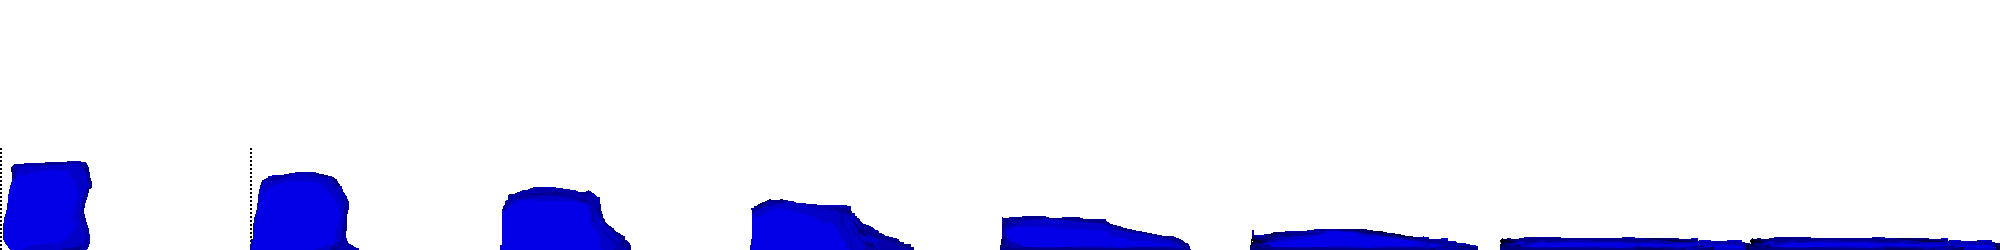
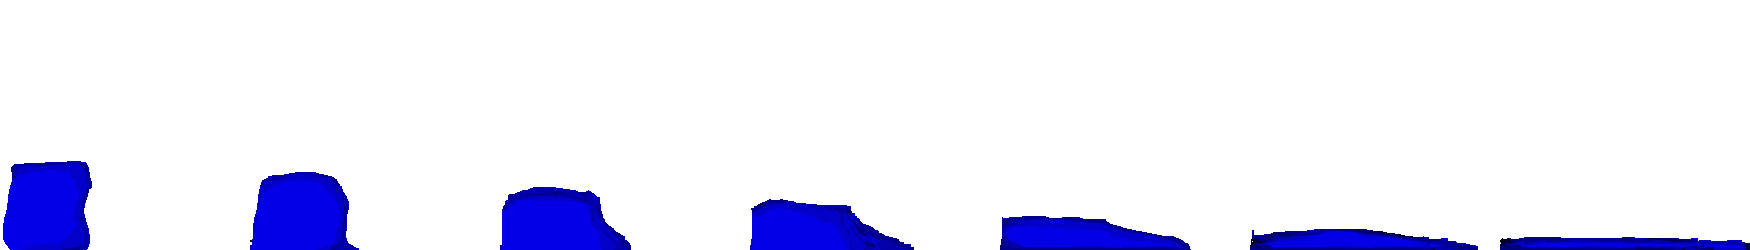
fixed water bucket and started working on rotating bullets

Changed region(s): [[0.2469, 0.728, 1.0, 1.0], [0.1234, 0.672, 0.216, 1.0], [0.0, 0.644, 0.0617, 1.0]]

diff --git a/core/src/com/main/Water.java b/core/src/com/main/Water.java
@@ -7,13 +7,11 @@ import com.badlogic.gdx.graphics.g2d.SpriteBatch;
 import com.badlogic.gdx.graphics.g2d.TextureRegion;
 import com.badlogic.gdx.math.Rectangle;
 
-import java.util.ArrayList;
-import java.util.List;
-
-public class Cannon {
+public class Water {
     Sprite sprite;
     int x, y, w, h;
     int counter = 0, delay;
+    boolean active = true;
     String type;
 
     // animation variables
@@ -22,21 +20,16 @@ public class Cannon {
     Animation anim;
     TextureRegion[] frames;
     TextureRegion frame;
-    TextureRegion last_frame;
     float frame_time = 0.1f;
 
-
-
-
-
-    Cannon(String type, int x, int y) {
+    Water(String type, int x, int y) {
         this.type = type;
-        sprite = new Sprite(Tables.cannon_resources.get(type) == null ? Resources.cannon : Tables.cannon_resources.get(type));
+        sprite = new Sprite(Tables.water_resources.get(type) == null ? Resources.water_bucket : Tables.water_resources.get(type));
         rows = 1;
         cols = Tables.balance.get("cols_"+type) == null ? 1 : Tables.balance.get("cols_"+type);
-        w = (Tables.cannon_resources.get(type) == null ? Resources.cannon : Tables.cannon_resources.get(type)).getWidth() / cols;
-        h = (Tables.cannon_resources.get(type) == null ? Resources.cannon : Tables.cannon_resources.get(type)).getHeight() / rows;
-        delay = Tables.balance.get("delay_"+type) == null ? 30 : Tables.balance.get("delay_"+type);
+        w = (Tables.water_resources.get(type) == null ? Resources.water_bucket : Tables.water_resources.get(type)).getWidth() / cols;
+        h = (Tables.water_resources.get(type) == null ? Resources.water_bucket : Tables.water_resources.get(type)).getHeight() / rows;
+//        delay = Tables.balance.get("delay_"+type) == null ? 30 : Tables.balance.get("delay_"+type);
         this.x = gridlock(x - w / 2);
         this.y = gridlock(y - h / 2);
         init_animation();
@@ -49,38 +42,24 @@ public class Cannon {
     }
 
     void update() {
-        if(!type.equals("laser") && counter++ > delay) {if (!Main.zombies.isEmpty()) fire(); counter = 0;}
-        if(type.equals("laser") && check_frame()) if(!Main.zombies.isEmpty()) fire();
-
+//        if(counter++ > delay) {if (!Main.zombies.isEmpty())  counter = 0;}
         frame_time += Gdx.graphics.getDeltaTime();
         frame = (TextureRegion)anim.getKeyFrame(frame_time, true);
         sprite = new Sprite(frame);
         sprite.setPosition(this.x, this.y);
-        sprite.setRotation(calc_angle());
+        active = !anim.isAnimationFinished(frame_time);
 
 
     }
 
-    boolean check_frame(){
-        return (last_frame == (TextureRegion)anim.getKeyFrame(frame_time, true));
-    }
 
 
 
-    float calc_angle() {
-        float zx = Main.zombies.get(0).x + (float)Main.zombies.get(0).w / 2, zy = Main.zombies.get(0).y + (float)Main.zombies.get(0).h / 2;
-        return (float)Math.toDegrees(Math.atan((y - zy)/(x - zx)) + (x >= zx ? Math.PI : 0));
-    }
-
-    void fire(){
-        Main.bullet.add(new Bullet("missile", x + w / 2, y + h / 2 ));
-        Resources.sfx_bullet.play(0.1f);
-    }
 
     void init_animation(){
         // split texture in individual cells
         TextureRegion[][] sheet =
-                TextureRegion.split((Tables.cannon_resources.get(type) == null ? Resources.cannon : Tables.cannon_resources.get(type)), w, h);
+                TextureRegion.split((Tables.water_resources.get(type) == null ? Resources.water_bucket : Tables.water_resources.get(type)), w, h);
 
         // init numbers of frames to maximum number possible
         frames = new TextureRegion[rows * cols];
@@ -92,10 +71,6 @@ public class Cannon {
                 frames[index++] = sheet[r][c];
         //init the animation object
         anim = new Animation(frame_time, frames);
-        if(type.equals("laser")) {last_frame = (TextureRegion)anim.getKeyFrames()[anim.getKeyFrames().length - 6];}
-
-
-
     }
 
     int gridlock(int n) {

diff --git a/core/src/com/main/Main.java b/core/src/com/main/Main.java
@@ -23,6 +23,7 @@ public class Main extends ApplicationAdapter {
 	// GAME LISTS
 	static ArrayList<Zombie> zombies = new ArrayList<Zombie>();
 	static ArrayList<Cannon> cannons = new ArrayList<Cannon>();
+	static ArrayList<Water> watery = new ArrayList<Water>();
 	static ArrayList<Button> buttons = new ArrayList<Button>();
 	static ArrayList<Bullet> bullet = new ArrayList<Bullet>();
 	static ArrayList<Effect> effects  = new ArrayList<>();
@@ -46,6 +47,7 @@ public class Main extends ApplicationAdapter {
 //		zombie.draw(batch);
 		for (Zombie z : zombies) z.draw(batch);
 		for (Cannon b : cannons) b.draw(batch);
+		for (Water b : watery) b.draw(batch);
 		for (Button a : buttons) a.draw(batch);
 		for (Bullet y : bullet) y.draw(batch);
 		for (Effect d : effects) d.draw(batch);
@@ -57,6 +59,7 @@ public class Main extends ApplicationAdapter {
 		spawn_zombie();
 		for(Zombie z : zombies) z.update();
 		for(Cannon b : cannons) b.update();
+		for(Water b : watery) b.update();
 		for(Button a : buttons) a.update();
 		for(Bullet y : bullet) y.update();
 		for(Effect d : effects) d.update();
@@ -102,12 +105,22 @@ public class Main extends ApplicationAdapter {
 
 			}
 
-			for(Cannon c : cannons) if(c.gethitbox().contains( x, y)) return;
-			if(buildableCannon(x,y)) if (UI.money >= (Tables.balance.get("cost_"+current_type) == null ? 10 : Tables.balance.get("cost_"+current_type))) {
-				UI.money -= Tables.balance.get("cost_"+current_type) == null ? 10 : Tables.balance.get("cost_"+current_type);
-				cannons.add(new Cannon(current_type, x, y));
+			for(Cannon c : cannons) {
+				if(c.gethitbox().contains( x, y)) {
+					return;
+				}
 			}
-
+			if(buildableCannon(x,y)) {
+				if (!current_type.equals("bucket") && UI.money >= (Tables.balance.get("cost_"+current_type) == null ? 10 : Tables.balance.get("cost_"+current_type))) {
+					UI.money -= Tables.balance.get("cost_"+current_type) == null ? 10 : Tables.balance.get("cost_"+current_type);
+					cannons.add(new Cannon(current_type, x, y));
+				}
+			}
+			for(Water c : watery) if(c.gethitbox().contains( x, y)) return;
+			if (current_type.equals("bucket") && UI.money >= (Tables.balance.get("cost_"+current_type) == null ? 10 : Tables.balance.get("cost_"+current_type))) {
+				UI.money -= Tables.balance.get("cost_" + current_type) == null ? 10 : Tables.balance.get("cost_" +current_type);
+				watery.add(new Water(current_type, x + 100, y + 125));
+			}
 		}
 	}
 	void hidtt(){
@@ -122,11 +135,14 @@ public class Main extends ApplicationAdapter {
 		return (x < 1000 && ((y < 200 || y > 300) && y < 500));
 	}
 
+
+
 	void setup() {
 		Tables.init();
 		spawn_zombie();
 
 			buttons.add(new Button( "cannon",  buttons.size()* 75 + 200, 525));
+			buttons.add(new Button( "bucket",  buttons.size()* 75 + 200, 525));
 			buttons.add(new Button( "double",  buttons.size()* 75 + 200, 525));
 			buttons.add(new Button( "super",  buttons.size()* 75 + 200, 525));
 			buttons.add(new Button( "fire",  buttons.size()* 75 + 200, 525));
@@ -139,10 +155,12 @@ public class Main extends ApplicationAdapter {
 		for (Zombie z : zombies) if (!z.active) {
 			zombies.remove(z);
 			effects.add(new Effect("zombie_death", z.x, z.y));
+			removing_assets();
 			break;
 		}
 		for (Bullet y : bullet) if (!y.active) { bullet.remove(y); break;}
 		for (Effect d : effects) if (!d.active) { effects.remove(d); break;}
+		for (Water w : watery) if (!w.active) { watery.remove(w); break;}
 	}
 
 	void spawn_zombie() {

diff --git a/core/src/com/main/Tables.java b/core/src/com/main/Tables.java
@@ -6,6 +6,7 @@ import java.util.HashMap;
 
 public class Tables {
     static HashMap<String, Texture> cannon_resources = new HashMap<String, Texture>();
+    static HashMap<String, Texture> water_resources = new HashMap<String, Texture>();
     static HashMap<String, Texture> button_resources = new HashMap<String, Texture>();
     static HashMap<String, Texture> zombie_resources = new HashMap<String, Texture>();
     static HashMap<String, Texture> bullet_resources = new HashMap<String, Texture>();
@@ -21,7 +22,8 @@ public class Tables {
         cannon_resources.put("laser", Resources.cannon_laser);
         cannon_resources.put("double", Resources.cannon_double);
         cannon_resources.put("mounted", Resources.cannon_mounted);
-        cannon_resources.put("water_bucket", Resources.water_bucket);
+
+        water_resources.put("bucket", Resources.water_bucket);
 
         button_resources.put("fire", Resources.button_cannon_fire);
         button_resources.put("super", Resources.button_cannon_super);
@@ -43,6 +45,7 @@ public class Tables {
         resources.put("effect_click", Resources.click_effect);
         resources.put("tap_effect", Resources.tap_effect);
         resources.put("zombie_death", Resources.zombie_death);
+        resources.put("bullet_missile", Resources.bullet_missile);
 
         //tool tip info
         tooltips.put("fire", "Fires high damage bullets at high rate of fire.");
@@ -56,19 +59,21 @@ public class Tables {
         // canon fire delay
         balance.put("delay_fire", 15);
         balance.put("delay_double", 45);
-        balance.put("delay_laser", 85);
 
         // canon placement costs
         balance.put("cost_fire", 50);
         balance.put("cost_double", 30);
         balance.put("cost_super", 40);
         balance.put("cost_laser", 250);
+        balance.put("cost_bucket", 1);
 
         // unlock costs
         balance.put("unlock_fire", 300);
         balance.put("unlock_double", 250);
         balance.put("unlock_super", 40);
         balance.put("unlock_laser", 500);
+        balance.put("unlock_bucket", 5);
+
 
         //zombie speeds
         balance.put("speed_fast", 3);
@@ -85,7 +90,7 @@ public class Tables {
         balance.put("cols_click", 4);
         balance.put("cols_tap", 9);
         balance.put("cols_zombie_death", 6);
-//        balance.put("cols _water", 8);
+        balance.put("cols_bucket", 7);
 
 
 

diff --git a/core/src/com/main/Bullet.java b/core/src/com/main/Bullet.java
@@ -1,5 +1,6 @@
 package com.main;
 
+import com.badlogic.gdx.graphics.g2d.Sprite;
 import com.badlogic.gdx.graphics.g2d.SpriteBatch;
 import com.badlogic.gdx.math.Rectangle;
 
@@ -9,30 +10,37 @@ public class Bullet {
     float angle;
     String type;
     boolean active = true;
+    Sprite sprite;
 
     Bullet(String type, int x, int y) {
         this.type = type;
         this.x = x;
         this.y = y;
+
+        sprite = new Sprite(Tables.resources.get("bullet_" + type) == null ? Resources.Bullet : Tables.resources.get("bullet_" + type));
         w = Tables.bullet_resources.get(type) == null ? Resources.Bullet.getWidth() : Tables.bullet_resources.get(type).getWidth();
         h = Tables.bullet_resources.get(type) == null ? Resources.Bullet.getHeight() : Tables.bullet_resources.get(type).getHeight();
         speed =  5;
         dt = 0;
         md = 300;
         angle = calc_angle();
+        sprite.setPosition(x, y);
+        sprite.setRotation((float)Math.toDegrees(calc_angle()) - 90f);
 
     }
 
     void draw(SpriteBatch batch) {
-        batch.draw(Tables.bullet_resources.get(type) == null ? Resources.Bullet : Tables.bullet_resources.get(type), x, y);
-    }
+        sprite.draw(batch);
+     }
 
     void update() {
         x += Math.cos(angle) * speed;
         y += Math.sin(angle) * speed;
+        sprite.setPosition(x, y);
         dt += Math.cos(angle) * speed + Math.sin(angle) * speed;
         active = dt < md;
         hitzombie();
+
     }
 
     Rectangle hitbox(){ return new Rectangle( x, y, w, h);}

diff --git a/core/src/com/main/Resources.java b/core/src/com/main/Resources.java
@@ -32,6 +32,7 @@ public class Resources {
     static Texture cannon_double = new Texture(Gdx.files.internal("doubleCannon.png"));
     static Texture cannon_laser = new Texture(Gdx.files.internal("laserCannon.png"));
     static Texture cannon_mounted = new Texture(Gdx.files.internal("mountedCannon.png"));
+
     static Texture water_bucket = new Texture(Gdx.files.internal("water-deffence.png"));
 
     // TODO: Zombies
@@ -44,6 +45,7 @@ public class Resources {
 
     // TODO: Bullets
     static Texture Bullet = new Texture(Gdx.files.internal("Bullet.png"));
+    static Texture bullet_missile = new Texture(Gdx.files.internal("missile.png"));
 
     // TODO: Sounds
     static Sound sfx_bullet = Gdx.audio.newSound(Gdx.files.internal("Bullet.mp3"));

diff --git a/core/src/com/main/Effect.java b/core/src/com/main/Effect.java
@@ -29,7 +29,7 @@ public class Effect {
     }
 
     void update(){
-        active = !anim.isAnimationFinished(("zombie_death".equals(type)) ? frame_time_death : frame_time );//????????????????????????????
+        active = !anim.isAnimationFinished(frame_time);
     }
 
     void draw(SpriteBatch batch){
